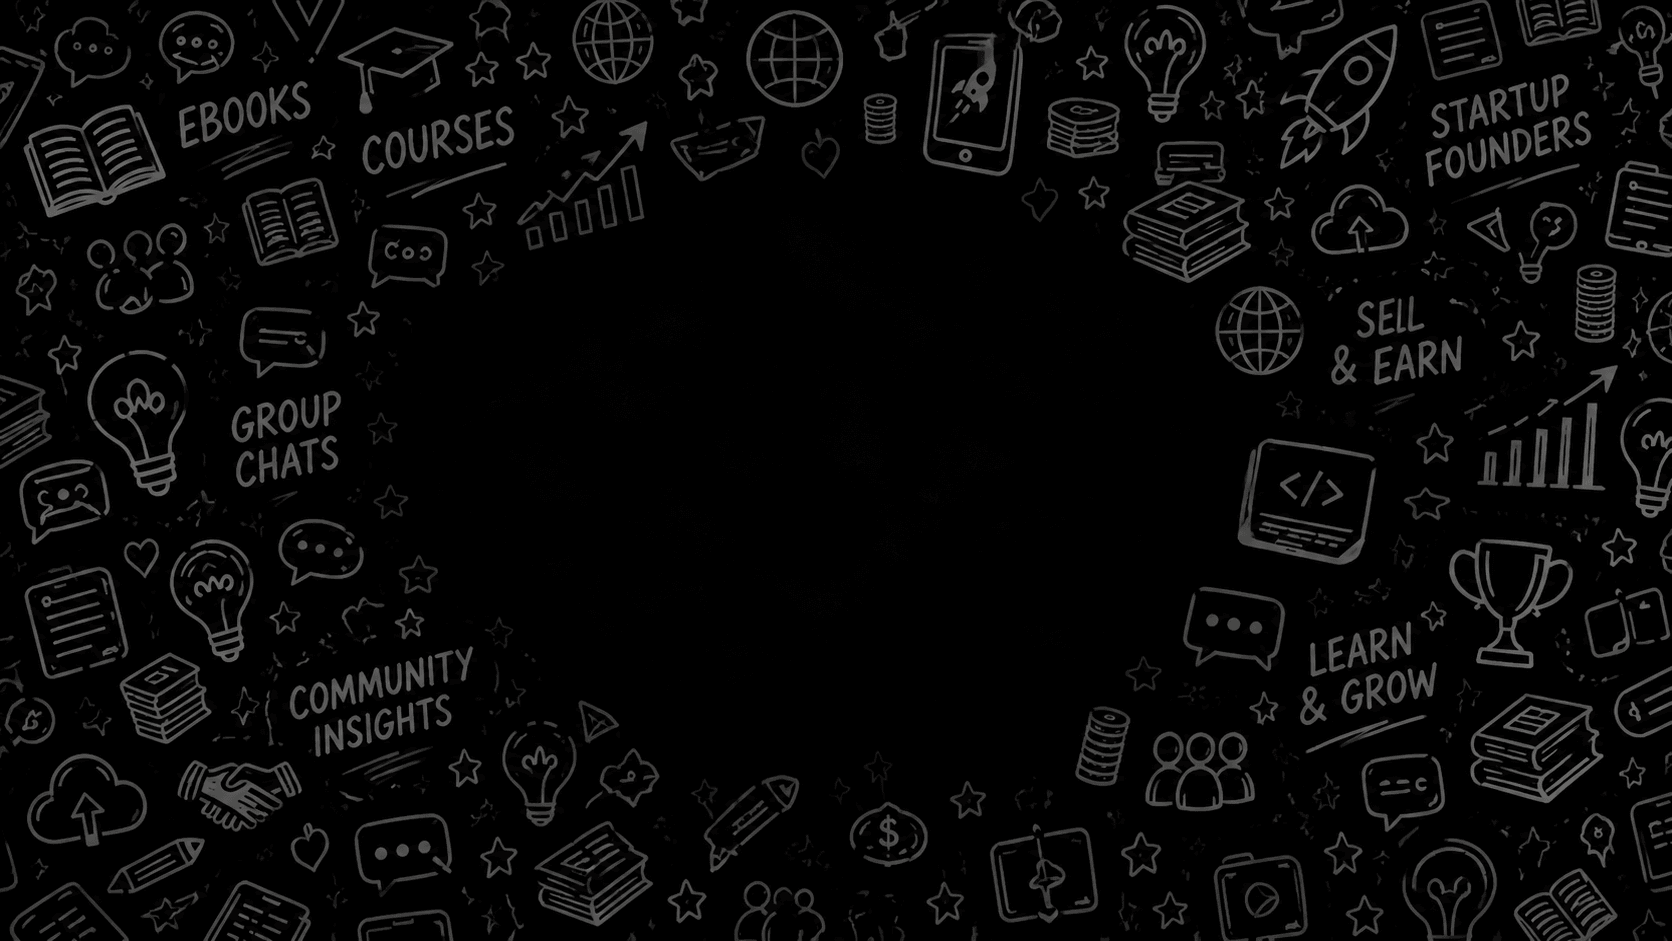
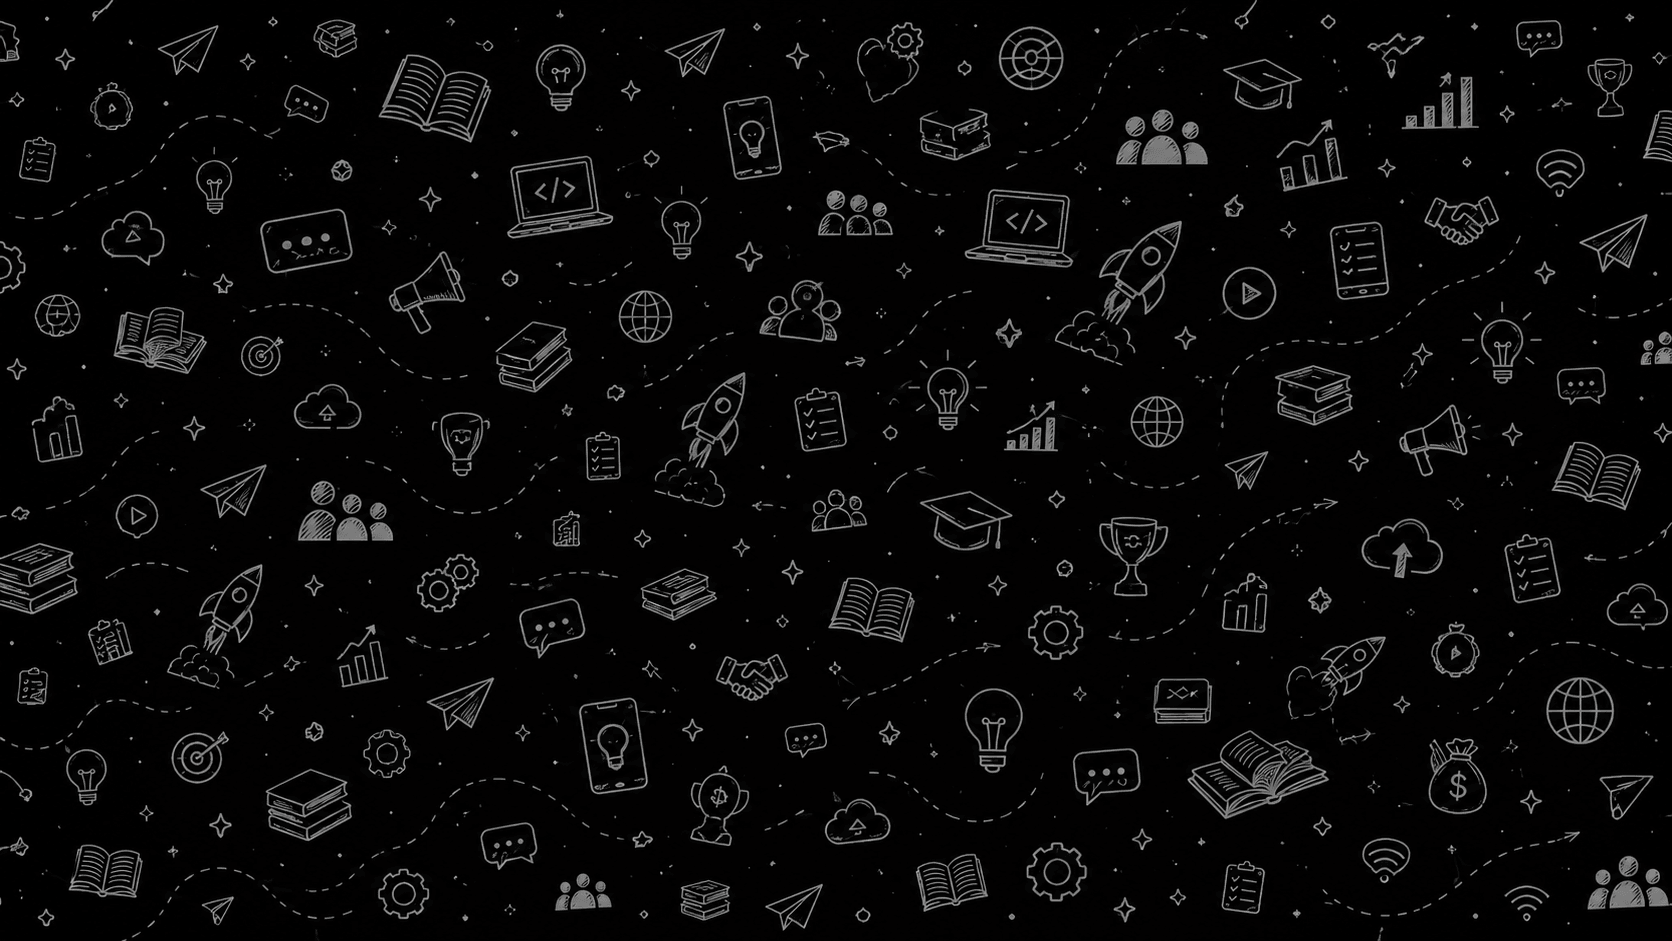
chore(auth): swap landing wallpaper to tech education doodle pattern

diff --git a/.opencode/memory/MEMORY.md b/.opencode/memory/MEMORY.md
@@ -61,7 +61,7 @@ Slogan: Grow. Audience: aspirational builders, dreamers, goal-oriented community
 - 2026-11-06: Perf Phase 3 (skeletons / streaming / pending states). New `src/components/ui/skeleton.tsx` (`Skeleton`, `SkeletonCircle`, `SkeletonText`, `SkeletonStatus`, `LoadingRegion` with `aria-busy`, `role=status`, sr-only label, `data-ds-loading`), `skeletons.tsx` (app/ebook/course/suggy/group/interest/stat/list/table/form cards), `page-skeletons.tsx` (page heading, detail hero, text card, stat row, form/settings/table/auth/list pages), `submit-button.tsx` (`useFormStatus`, `aria-busy`, pending text), and `.ds-skeleton` shimmer + reduced-motion override in `globals.css`. 29 route `loading.tsx` files cover lists, details, dashboards, settings, auth, upload/publish, notifications, onboarding, groups, profile, admin. Streaming: `/home` (NeedsYou, My groups, Trending, New ebooks after the profile gate), `/ebooku` grid, `/findem/[interest]` grid, `/groups/[slug]` signals; the marketing layout wraps auth-aware `SiteHeader` in Suspense with a 72 px fallback, which fixed the `/privacy` prerender failure and made `/privacy` + `/terms` PPR. Added `(app)/error.tsx`, `(app)/not-found.tsx`, root `not-found.tsx`, `NotFoundView`; inline pending states on sign-out, mark-all-read, notification rows, invite regenerate/revoke/accept, onboarding, remove listing, sign-in/sign-up. Client JS +~4.3 kB gzip on app routes (new client error boundary); skeletons/loading files add none. Build green 43 routes; 18/18 checks passed (streamed fallbacks present, protected routes 307, spoofed identity ignored, webhook 401, unknown route 404). Load p50 pass 5: `/apps` 149 ms, `/ebooku` 178, `/decourse` 141, `/findem` 152, `/suggy` 152, `/findem/tech` 186, `/privacy` 142; warm TTFB 25–145 ms. Caveats: local first `/apps` request took 43 s because `next start` lazily ran `next.config.ts` for 42 s (not a code path); signed-in latency still unmeasured without a test session; Lighthouse is not installed locally.
 
 - 2026-11-10: Perf Phase 4 (resilience / abuse / webhooks). New dependency-free libs: `src/lib/rate-limit.ts` (bounded fixed-window limiter, `requestIp`, `RATE_LIMITS` budgets), `src/lib/http.ts` (`tooManyRequests` → 429 + `Retry-After` + `no-store`, `readBody` size cap, `parseJson`), `src/lib/monitoring.ts` (`logSlow`, `logRateLimited` JSON lines), `src/lib/fetch-timeout.ts` (abort + outer-signal forwarding), `src/lib/supabase-fetch.ts` (8 s default, `SUPABASE_FETCH_TIMEOUT_MS`), `src/lib/action-limit.ts` (server-action limiter keyed by user or IP). All Supabase clients and the proxy use `supabaseFetch`; Paystack init/verify use 10 s (`PAYSTACK_TIMEOUT_MS`) + slow logging. Webhook: `maxDuration=30`, 64 KB body cap, 300/min IP limit, HMAC, atomic `pending → success` compare-and-set (concurrent duplicates cannot both publish), no-store, replay-safe, 30 s cap. Checkout app/ebook: 30 s, 8 KB cap, 10/10 min per user; view/click 120/min; downloads 60/min; export 10/min; auth callback 30/min; sensitive responses `no-store`. Server actions rate-limited: groups, suggies, ebooks/apps/courses upload+create, reviews, profile avatar, payouts, notify, settings. Proxy identity is trusted only with `x-ds-auth-checked=1`; home sections catch and fall back to empty states. Migration `supabase/migrations/20261107_phase4_hardening.sql`: checkout lookup indexes, guarded unique one-success app payment per app+buyer (skips with notice if duplicates exist), pending cleanup partial index. Verify: build green 43 routes; 27/27 Phase 4 checks (429 + retry-after + no-store; unsigned 401; oversize 413; signed/replay 200); 18/18 Phase 3 regressions; 9/9 webhook e2e with temp user/app/payment — pending→success, draft→published, replay stable, concurrent duplicates settle once, all temp rows cleaned; load p50 pass 5 `/apps` 168, `/ebooku` 185, `/decourse` 161, `/findem` 173, `/suggy` 171, `/findem/tech` 204, `/privacy` 190 ms, 840/840 requests OK; bundles unchanged (no new client JS). Caveats: in-memory limiter is per-instance (use Upstash/Vercel KV for strict multi-instance); Lighthouse still unavailable locally; both Phase 1 + Phase 4 migrations pending prod. Signed-in smoke added: temp password account + real `@supabase/ssr` session cookie, 8/8 checks — `/home`, `/settings`, `/notifications`, `/dashboard/earnings` all 200 (identity headers work), export route returns user CSV, temp rows cleaned. Warm signed-in TTFB: `/home` ~1.06–1.13 s, `/settings` ~0.52–0.54 s, `/notifications` ~0.85–1.15 s, `/dashboard/earnings` ~0.59–0.97 s — the remaining cost is serial remote-Supabase round trips (profile→groups→inbox; purge→list+count), now the top Phase 5 target.
-- 2026-11-10: Auth-first landing redesign (not deployed). `/` is now the full-screen monochrome auth experience: `public/wide_dark_monochrome_doodle_wallpaper_background.png` (real Chalkboard Startup Doodle Border asset) as `cover` backdrop with a radial scrim, near-black glass card, topbar and footer. `src/components/auth/{AuthShell,AuthField,AuthExperience,ResetPasswordForm}.tsx` + the auth system in `globals.css`. Sign In uses `signInWithPassword`; Sign Up uses `signUp` with name metadata; Forgot uses `resetPasswordForEmail` to `/auth/callback?next=/auth/reset-password`; magic-link `signInWithOtp` remains for legacy OTP accounts. Remember-email persists `ds.auth.email`; inline validation, show/hide, loading, success panels, focus management, reduced-motion. `/auth/reset-password` updates the password with `updateUser`; `/auth/sign-in` and `/auth/sign-up` now 307 to `/?mode=signin|signup` in `src/proxy.ts` (next/error preserved); signed-out recovery hits `/?mode=signin&error=auth`; protected routes redirect to root with `next`. Old landing/marketing components, `SignInForm`, `NotifyForm`, `Aurora`, `SpotlightCard`, `SplitText`, `CountUp`, `lib/faq.ts`, default public SVGs and the `gsap`/`@gsap/react`/`motion` deps were removed. Legal pages now render in a minimal shell with a back link. `tsc` clean, lint 0 errors (2 pre-existing payout warnings), build green 44 routes; browser checks at 1440/768/390 showed no overflow or console errors, and 27/27 auth interaction checks passed (validation, reveal, mode switching, terms gate, forgot guard, reduced motion).
+- 2026-11-10: Auth-first landing redesign (not deployed). `/` is now the full-screen monochrome auth experience: `public/wide_dark_monochrome_doodle_wallpaper_background.png` (Chalkboard Tech Education Doodle Pattern asset, 289 KB palette PNG) as `cover` backdrop with a radial scrim, near-black glass card, topbar and footer. `src/components/auth/{AuthShell,AuthField,AuthExperience,ResetPasswordForm}.tsx` + the auth system in `globals.css`. Sign In uses `signInWithPassword`; Sign Up uses `signUp` with name metadata; Forgot uses `resetPasswordForEmail` to `/auth/callback?next=/auth/reset-password`; magic-link `signInWithOtp` remains for legacy OTP accounts. Remember-email persists `ds.auth.email`; inline validation, show/hide, loading, success panels, focus management, reduced-motion. `/auth/reset-password` updates the password with `updateUser`; `/auth/sign-in` and `/auth/sign-up` now 307 to `/?mode=signin|signup` in `src/proxy.ts` (next/error preserved); signed-out recovery hits `/?mode=signin&error=auth`; protected routes redirect to root with `next`. Old landing/marketing components, `SignInForm`, `NotifyForm`, `Aurora`, `SpotlightCard`, `SplitText`, `CountUp`, `lib/faq.ts`, default public SVGs and the `gsap`/`@gsap/react`/`motion` deps were removed. Legal pages now render in a minimal shell with a back link. `tsc` clean, lint 0 errors (2 pre-existing payout warnings), build green 44 routes; browser checks at 1440/768/390 showed no overflow or console errors, and 27/27 auth interaction checks passed (validation, reveal, mode switching, terms gate, forgot guard, reduced motion).
 
 ## Still TODO
 - Interest rename rollout DONE: prod columns renamed, slug backfill applied (1 profile + 1 group → business), `idx_groups_interest` created, PostgREST reloaded. Deployed 27c742a; prod smoke: `/findem` 200 with 12 interests, `/findem/business` 200 shows TaskNova, `/findem/tech` 200, `/findem/developers` 308 → `/findem/tech`, `/findem/founders` 308 → `/findem/business`, `/groups/tasknova` 200 shows Business & Startups, `/privacy` 200, `/onboarding` 307 to sign-in.
